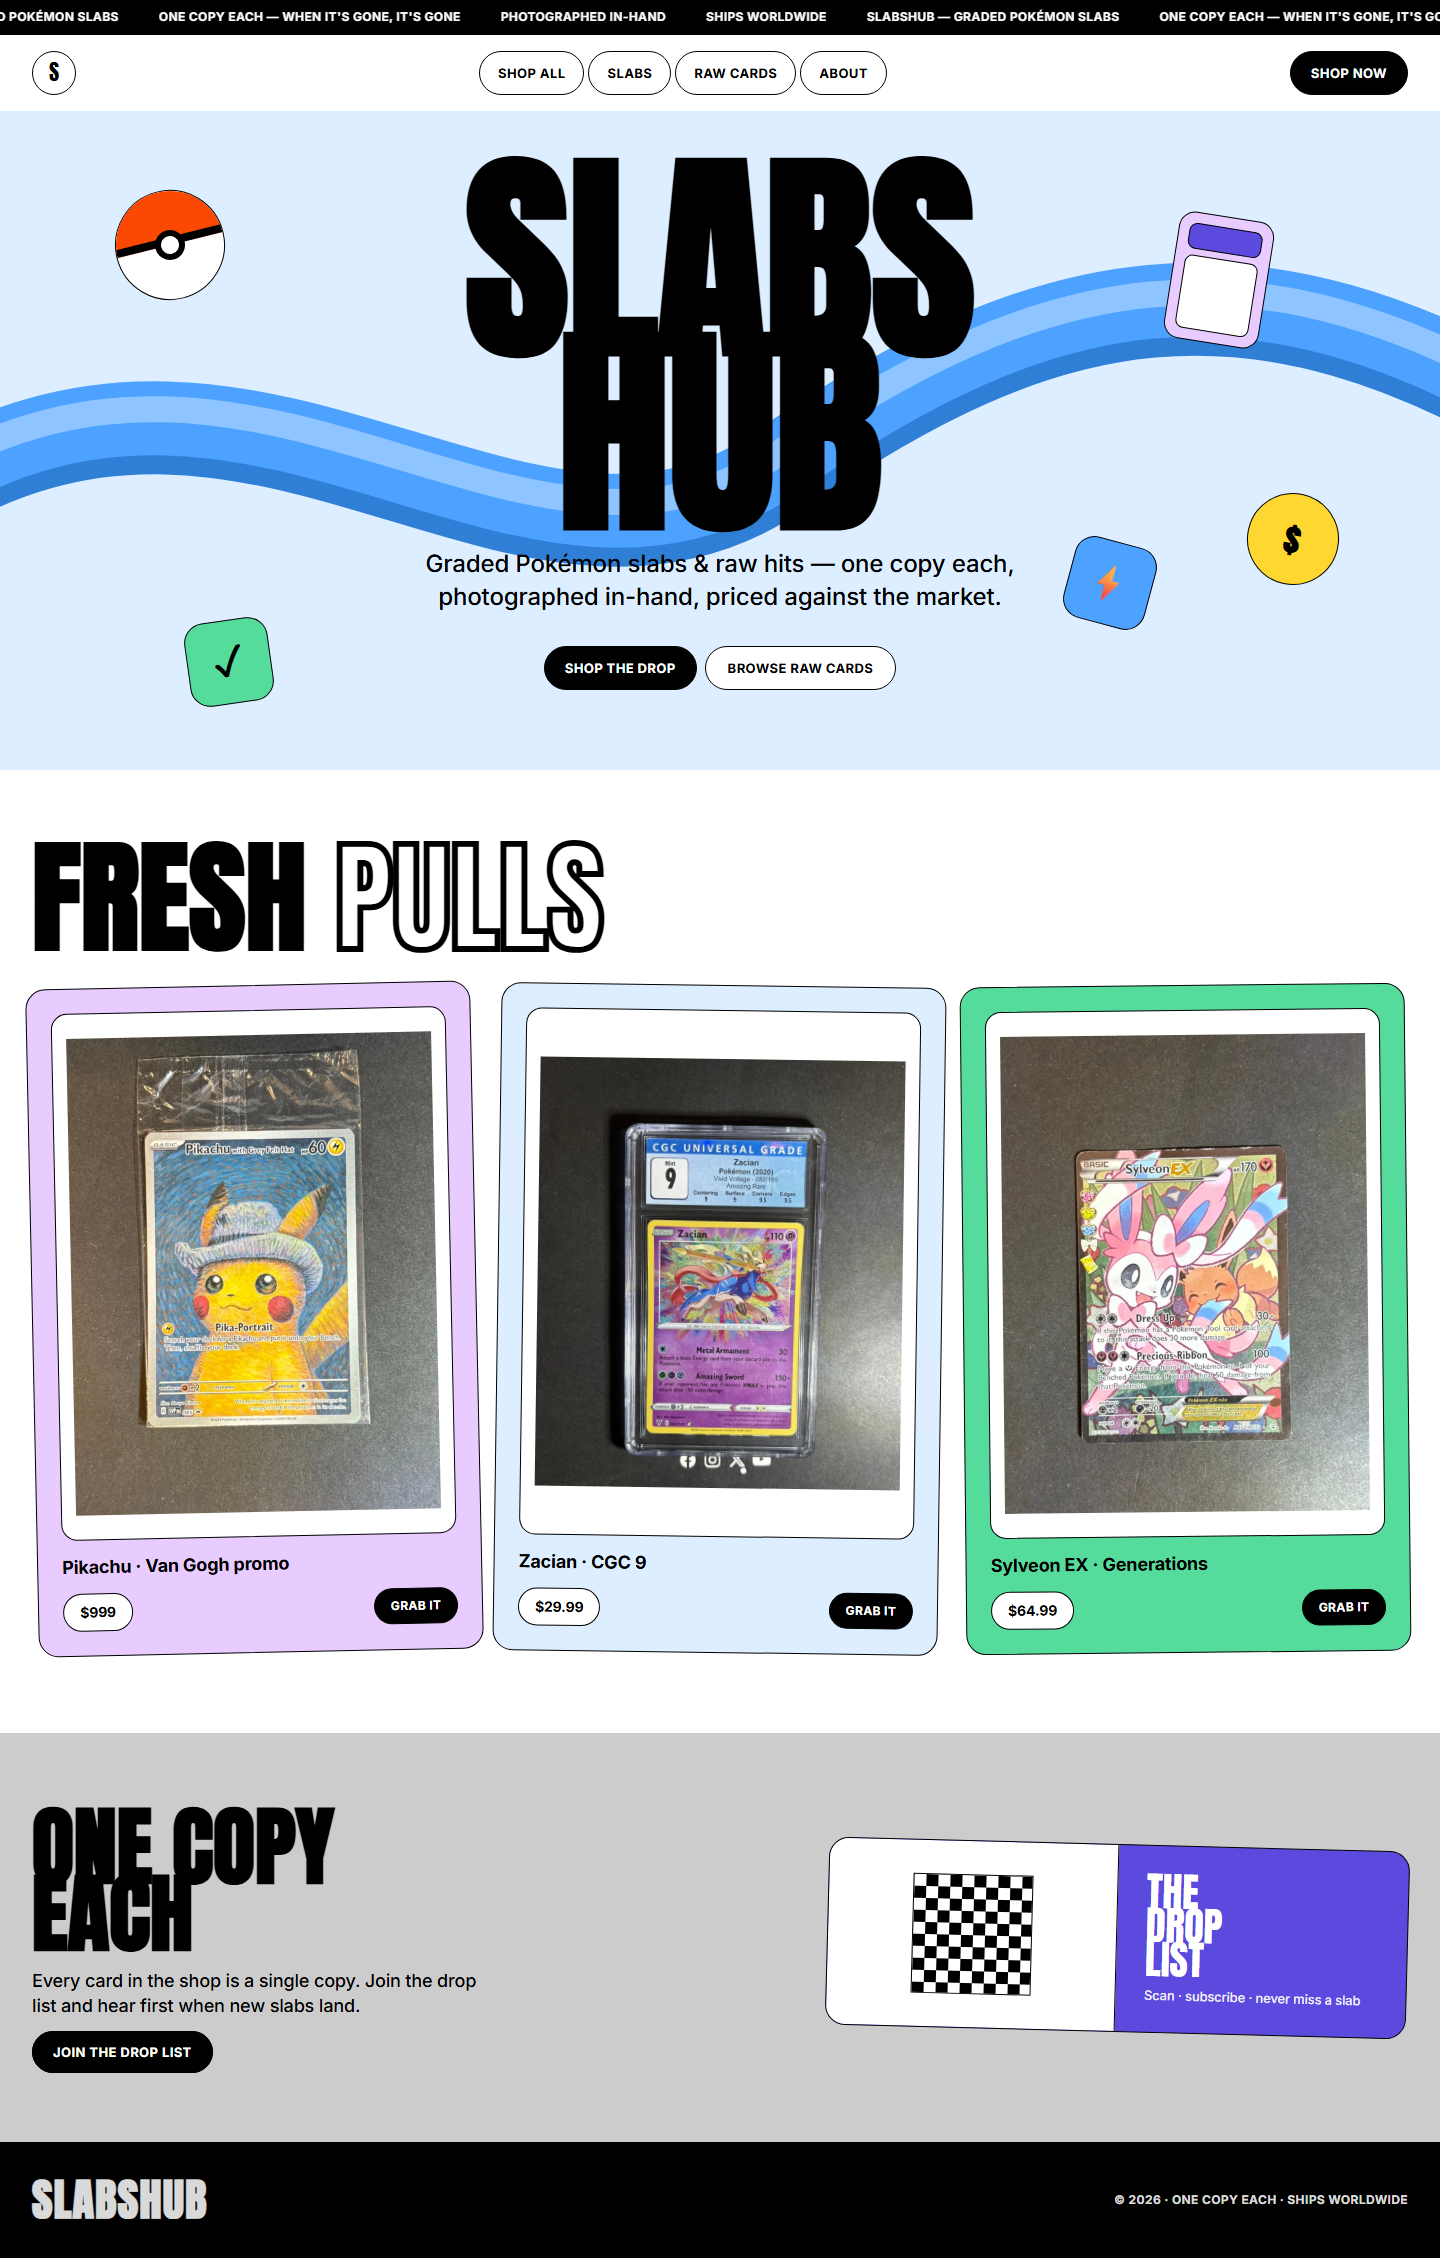
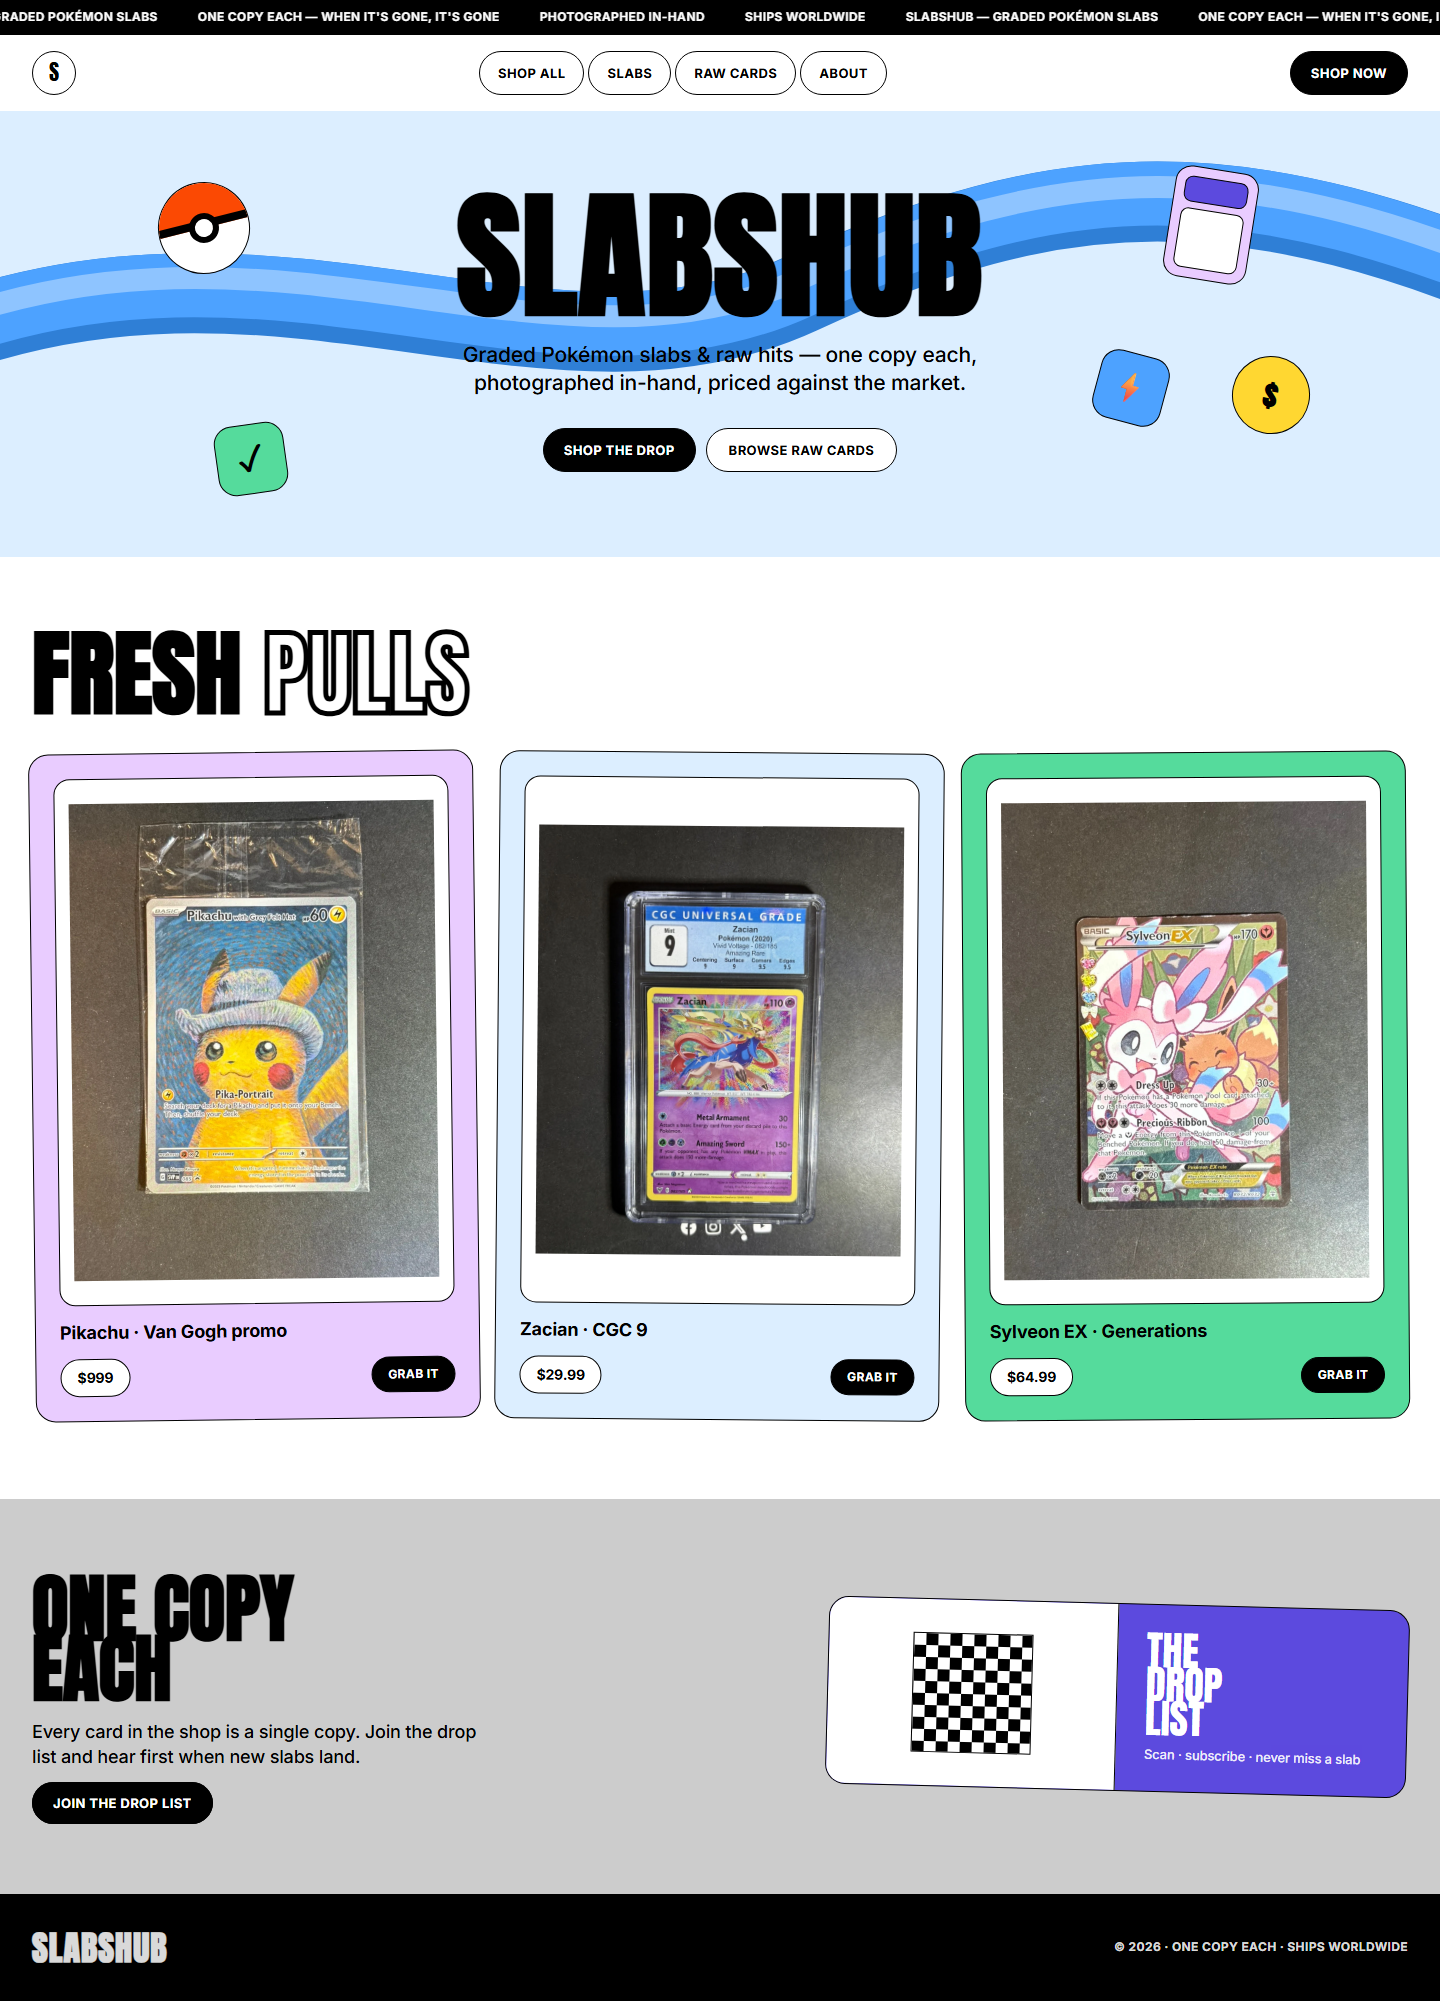
Slush polish pass: single-line headline at balanced scale, ribbon re-centered behind wordmark, smaller stickers, tighter section display sizes

diff --git a/design/2026-08-06-slush-concept/slabshub-slush-home.html b/design/2026-08-06-slush-concept/slabshub-slush-home.html
@@ -78,15 +78,16 @@
     background: var(--sky-wash);
     position: relative;
     text-align: center;
-    padding: 60px 0 80px;
+    padding: 90px 0 85px;
     overflow: hidden;
   }
   .display {
     font-family: var(--font-display);
     font-weight: 800;
-    font-size: clamp(110px, 15.5vw, 224px);
-    line-height: 0.78;
+    font-size: clamp(72px, 9.6vw, 138px);
+    line-height: 0.8;
     text-transform: uppercase;
+    letter-spacing: 0.01em;
     position: relative;
     z-index: 2;
   }
@@ -98,11 +99,12 @@
   .ribbon svg { width: 100%; height: 100%; }
   .hero .tagline {
     position: relative; z-index: 3;
-    font-size: 24px; font-weight: 500;
-    margin: 28px auto 0;
-    max-width: 620px;
+    font-size: 21px; font-weight: 500;
+    line-height: 1.35;
+    margin: 30px auto 0;
+    max-width: 540px;
   }
-  .hero .btn-row { position: relative; z-index: 3; display: flex; justify-content: center; gap: 8px; margin-top: 32px; flex-wrap: wrap; }
+  .hero .btn-row { position: relative; z-index: 3; display: flex; justify-content: center; gap: 10px; margin-top: 30px; flex-wrap: wrap; }
   .ghost {
     border: 1px solid var(--carbon); background: var(--paper); border-radius: var(--r-pill);
     font-weight: 700; font-size: 13px; letter-spacing: 0.032em; text-transform: uppercase;
@@ -118,15 +120,15 @@
     display: flex; align-items: center; justify-content: center;
     font-weight: 700; font-size: 13px; letter-spacing: 0.032em; text-transform: uppercase;
   }
-  .stk-ball { width: 110px; height: 110px; border-radius: 50%; background: var(--paper); top: 12%; left: 8%; transform: rotate(-14deg); overflow: hidden; }
+  .stk-ball { width: 92px; height: 92px; border-radius: 50%; background: var(--paper); top: 16%; left: 11%; transform: rotate(-14deg); overflow: hidden; }
   .stk-ball .half { position: absolute; top: 0; left: 0; right: 0; height: 50%; background: var(--ember); border-bottom: 8px solid var(--carbon); }
   .stk-ball .dot { position: absolute; width: 30px; height: 30px; border-radius: 50%; background: var(--paper); border: 6px solid var(--carbon); z-index: 2; }
-  .stk-coin { width: 92px; height: 92px; border-radius: 50%; background: var(--sunburst); top: 58%; right: 7%; transform: rotate(12deg); font-family: var(--font-display); font-size: 34px; }
-  .stk-slab { width: 96px; height: 128px; border-radius: 16px; background: var(--lavender); top: 16%; right: 12%; transform: rotate(9deg); flex-direction: column; gap: 6px; padding: 10px; }
+  .stk-coin { width: 78px; height: 78px; border-radius: 50%; background: var(--sunburst); top: 55%; right: 9%; transform: rotate(12deg); font-family: var(--font-display); font-size: 30px; }
+  .stk-slab { width: 84px; height: 112px; border-radius: 16px; background: var(--lavender); top: 13%; right: 13%; transform: rotate(9deg); flex-direction: column; gap: 6px; padding: 9px; }
   .stk-slab .label { width: 100%; height: 26px; border-radius: 8px; background: var(--violet); border: 1px solid var(--carbon); }
   .stk-slab .art { width: 100%; flex: 1; border-radius: 8px; background: var(--paper); border: 1px solid var(--carbon); }
-  .stk-check { width: 84px; height: 84px; border-radius: 20px; background: var(--mint); bottom: 10%; left: 13%; transform: rotate(-8deg); font-size: 40px; }
-  .stk-zap { width: 84px; height: 84px; border-radius: 20px; background: var(--electric); bottom: 22%; right: 20%; transform: rotate(15deg); font-size: 38px; }
+  .stk-check { width: 70px; height: 70px; border-radius: 18px; background: var(--mint); bottom: 14%; left: 15%; transform: rotate(-8deg); font-size: 34px; }
+  .stk-zap { width: 70px; height: 70px; border-radius: 18px; background: var(--electric); bottom: 30%; right: 19%; transform: rotate(15deg); font-size: 32px; }
 
   /* Sections */
   section { padding: 80px 0; }
@@ -134,8 +136,8 @@
   .band-gray { background: var(--concrete); }
   .sec-display {
     font-family: var(--font-display);
-    font-size: clamp(64px, 8.5vw, 128px);
-    line-height: 0.78;
+    font-size: clamp(52px, 6.5vw, 96px);
+    line-height: 0.8;
     text-transform: uppercase;
     margin-bottom: 40px;
   }
@@ -151,9 +153,9 @@
     transition: transform 0.2s ease;
   }
   .p-card:hover { transform: rotate(-1deg) translateY(-4px); }
-  .p-card.c1 { background: var(--lavender); transform: rotate(-1.2deg); }
-  .p-card.c2 { background: var(--sky-wash); transform: rotate(0.8deg); }
-  .p-card.c3 { background: var(--mint); transform: rotate(-0.6deg); }
+  .p-card.c1 { background: var(--lavender); transform: rotate(-0.7deg); }
+  .p-card.c2 { background: var(--sky-wash); transform: rotate(0.5deg); }
+  .p-card.c3 { background: var(--mint); transform: rotate(-0.4deg); }
   .p-card .img {
     background: var(--paper); border: 1px solid var(--carbon); border-radius: 16px;
     aspect-ratio: 3/4; display: flex; align-items: center; justify-content: center; padding: 14px;
@@ -183,13 +185,13 @@
   .drop-card .panel-b { color: var(--paper); padding: 28px; display: flex; flex-direction: column; justify-content: center; gap: 10px; }
   .drop-card .panel-b .big { font-family: var(--font-display); font-size: 40px; line-height: 0.85; text-transform: uppercase; }
   .drop-card .panel-b p { font-size: 13px; font-weight: 500; opacity: 0.9; }
-  .drop-copy h2 { font-family: var(--font-display); font-size: clamp(56px, 6vw, 96px); line-height: 0.78; text-transform: uppercase; margin-bottom: 20px; }
+  .drop-copy h2 { font-family: var(--font-display); font-size: clamp(48px, 5.2vw, 80px); line-height: 0.8; text-transform: uppercase; margin-bottom: 20px; }
   .drop-copy p { font-size: 18px; max-width: 460px; margin-bottom: 24px; }
 
   /* Footer */
   footer { background: var(--carbon); color: var(--paper); padding: 40px 32px; }
   .foot-row { display: flex; align-items: center; justify-content: space-between; gap: 16px; flex-wrap: wrap; max-width: 1440px; margin: 0 auto; }
-  .foot-row .big-s { font-family: var(--font-display); font-size: 44px; line-height: 0.8; text-transform: uppercase; }
+  .foot-row .big-s { font-family: var(--font-display); font-size: 34px; line-height: 0.8; text-transform: uppercase; }
   .foot-row span { font-weight: 700; font-size: 12px; letter-spacing: 0.032em; text-transform: uppercase; opacity: 0.85; }
 
   @media (max-width: 900px) {
@@ -225,10 +227,10 @@
 <!-- Hero -->
 <div class="hero">
   <div class="ribbon" aria-hidden="true">
-    <svg viewBox="0 0 1440 700" preserveAspectRatio="xMidYMid slice">
-      <path d="M-100 420 C 250 180, 520 560, 780 380 S 1250 150, 1560 340" fill="none" stroke="#2f7fd6" stroke-width="92" stroke-linecap="round"/>
-      <path d="M-100 410 C 250 170, 520 550, 780 370 S 1250 140, 1560 330" fill="none" stroke="#4da2ff" stroke-width="74" stroke-linecap="round"/>
-      <path d="M-100 400 C 250 162, 520 540, 780 362 S 1250 132, 1560 322" fill="none" stroke="#8ec4ff" stroke-width="26" stroke-linecap="round"/>
+    <svg viewBox="0 0 1440 560" preserveAspectRatio="xMidYMid slice">
+      <path d="M-100 300 C 260 140, 540 360, 800 240 S 1240 110, 1560 250" fill="none" stroke="#2f7fd6" stroke-width="80" stroke-linecap="round"/>
+      <path d="M-100 292 C 260 132, 540 352, 800 232 S 1240 102, 1560 242" fill="none" stroke="#4da2ff" stroke-width="64" stroke-linecap="round"/>
+      <path d="M-100 285 C 260 125, 540 344, 800 225 S 1240 95, 1560 235" fill="none" stroke="#8ec4ff" stroke-width="22" stroke-linecap="round"/>
     </svg>
   </div>
 
@@ -239,7 +241,7 @@
   <span class="sticker stk-zap" aria-hidden="true">⚡</span>
 
   <div class="wrap">
-    <h1 class="display">Slabs<br>Hub</h1>
+    <h1 class="display">SlabsHub</h1>
     <p class="tagline">Graded Pokémon slabs & raw hits — one copy each, photographed in-hand, priced against the market.</p>
     <div class="btn-row">
       <a class="cta" href="#">Shop the drop</a>
